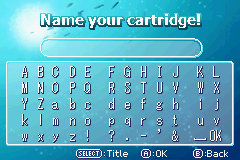
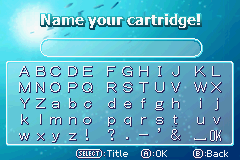
Graphics: Latin name entry grid; README template

diff --git a/docs/re/gfx_name.md b/docs/re/gfx_name.md
@@ -1,0 +1,17 @@
+# Graphics group: name (name entry character grid)
+
+| file | content | screen / route | status |
+|---|---|---|---|
+| /mode/title/name.imb | 5x12 kana grid -> Latin letters of tools/romdata.py NAME_ROWS (A-Z, a-z, ! ? . - ' &); space and OK cells kept. Header + help bar are redraw_title.py's work, untouched | name entry, `tools/debug/mode.lua --var MODE=0x0829B0F0` | done, verified in game |
+
+Generator: tools/gfx/redraw_name.py. It calls `redraw_title.name_entry()` first (header + help bar), then repaints
+the grid on that output (gfx/en/mode__title__name.imb.png), so running redraw_name.py alone regenerates the full PNG.
+Order if both are run: redraw_title.py, then redraw_name.py (running redraw_title.py afterwards would restore the kana).
+
+Style: MS Gothic 14 px full-width forms (embedded 1-bit strike, kana-sized, 1-px strokes) in white (223) with the kana's
+dark drop shadow (2) right/below, centred on the original cell centres x = 24 40 55 72 87 111 127 143 159 175 200 216,
+y = 71 87 103 119 135. Kana erased by colour diffusion of the panel background, mapped to colours the file already uses.
+The old dakuten/handakuten/long-vowel cells now hold K, L, W, X (matching NAME_ROWS).
+
+Verified: work/qa/gfx_name/final_x3.png (route A, right, A, down, A, down x2, A, right x3, A -> field shows "ABNlo"),
+work/qa/gfx_name/f002440_crop.png (cursor box centred on B).
